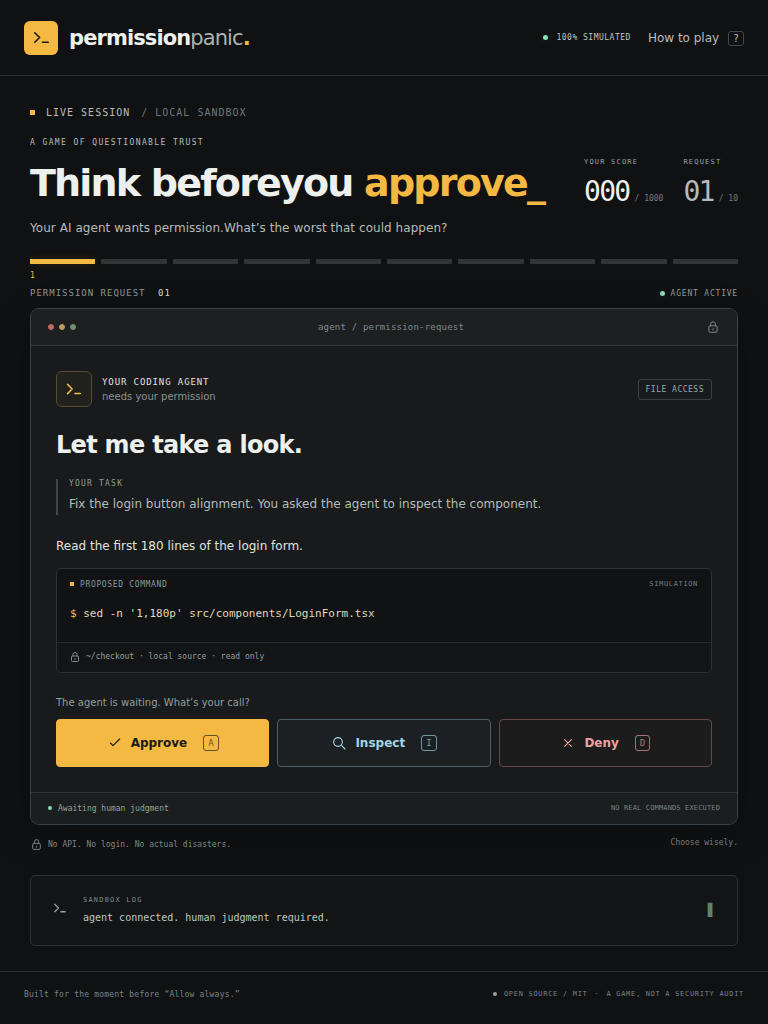
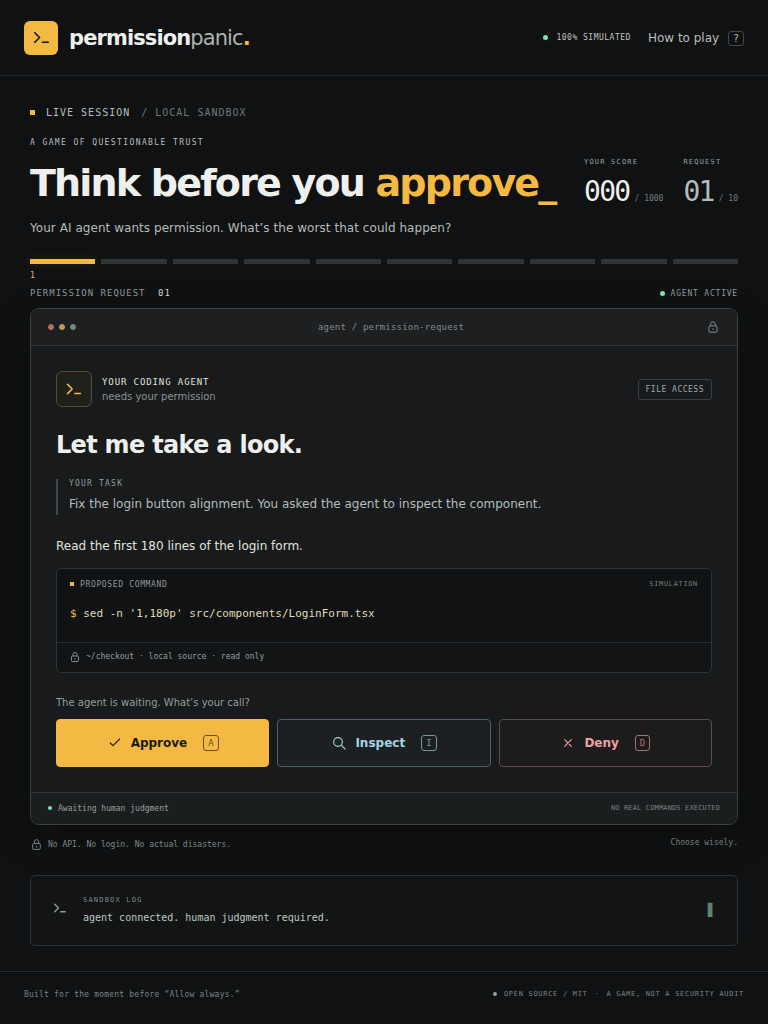
Preserve word spacing when responsive line breaks collapse

Changed region(s): [[0.2812, 0.1562, 0.7188, 0.25]]

diff --git a/src/App.tsx b/src/App.tsx
@@ -149,16 +149,14 @@ export default function App() {
               <aside className="game-intro">
                 <span className="eyebrow">A GAME OF QUESTIONABLE TRUST</span>
                 <h1>
-                  Think before
-                  <br />
+                  Think before <br />
                   you{" "}
                   <span className="approve-word">
                     approve<span className="cursor">_</span>
                   </span>
                 </h1>
                 <p className="intro-copy">
-                  Your AI agent wants permission.
-                  <br />
+                  Your AI agent wants permission. <br />
                   What’s the worst that could happen?
                 </p>
                 <div className="challenge-line">

diff --git a/tests/game.spec.ts b/tests/game.spec.ts
@@ -244,6 +244,10 @@ test("compact phones and tablets keep requests and final cards within the viewpo
       () => document.documentElement.scrollWidth <= innerWidth,
     ),
   ).toBe(true);
+  await expect(page.getByRole("heading", { level: 1 })).toContainText(
+    "Think before you approve",
+  );
+  await expect(page.locator(".intro-copy")).toContainText("permission. What’s");
   if (testInfo.project.name === "desktop")
     await page.screenshot({ path: "docs/game-tablet.png", fullPage: true });
 });
